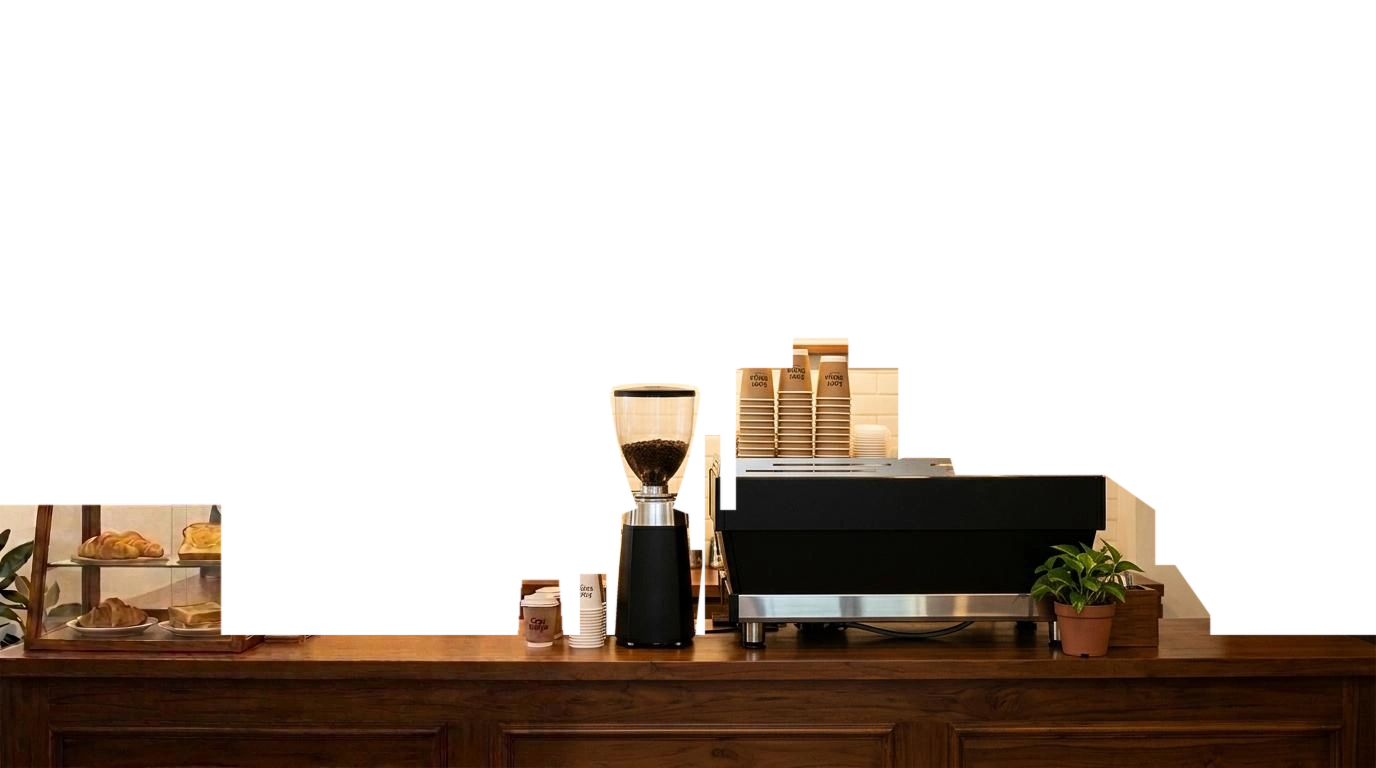
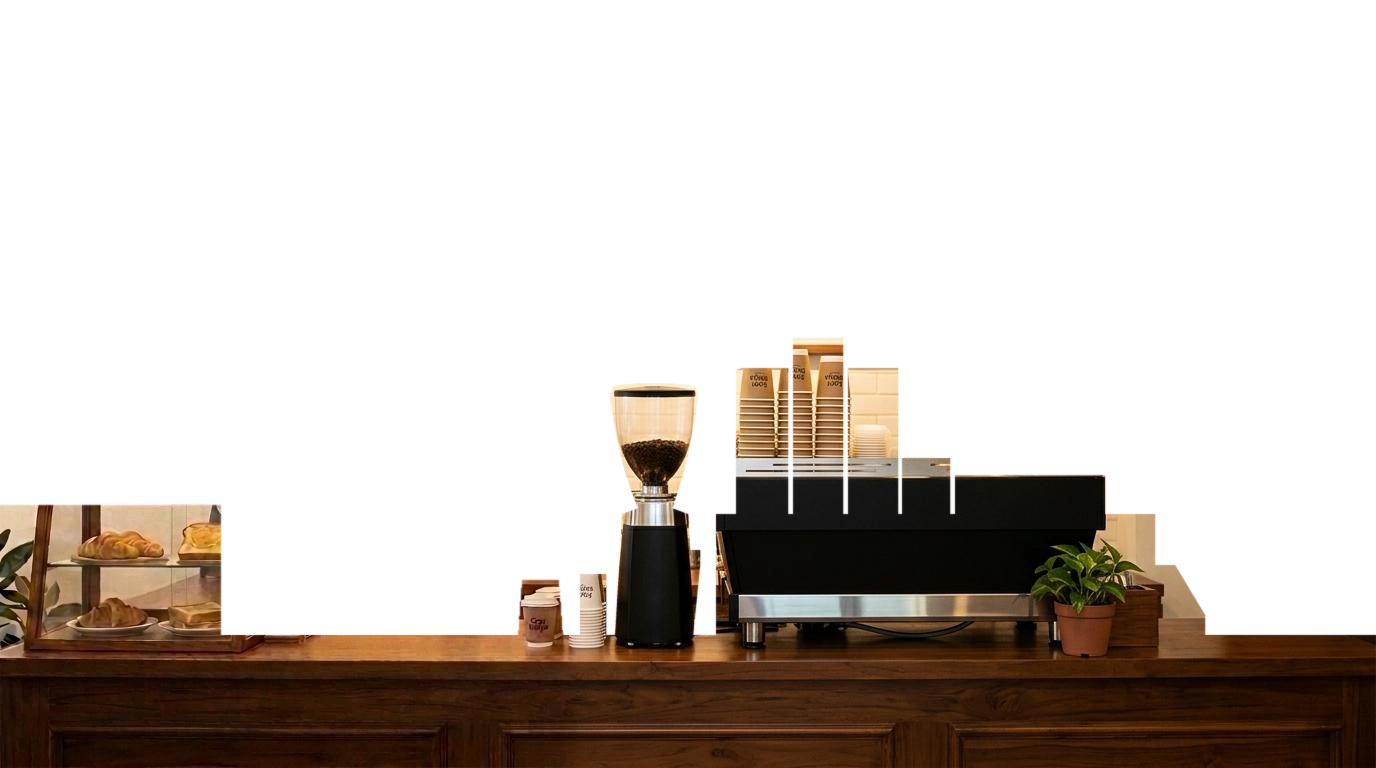
Initial commit

diff --git a/script.js b/script.js
@@ -733,7 +733,7 @@ function initHeroParallaxTuku() {
         if (!baristaEl) return;
 
         // Variabel posisi & pergerakan barista di balik meja
-        const POSISI_AWAL_PERSEN = 38; // Posisi default di meja tengah
+        const POSISI_AWAL_PERSEN = 33; // Posisi default di meja tengah
         let targetBaristaPersen = POSISI_AWAL_PERSEN;
         let currentBaristaPersen = POSISI_AWAL_PERSEN;
         let animPhase = 0;
@@ -742,7 +742,7 @@ function initHeroParallaxTuku() {
         let userSedangInteraksi = false;
         let timerIdle = null;
         let timerPatroli = null;
-        const stasiunPatroli = [24, 38, 58, 42, 28]; // Stasiun etalase roti (kiri), menyapa (tengah), mesin seduh (kanan)
+        const stasiunPatroli = [22, 33, 44, 35, 25]; // Area kerja: etalase toast (kiri), sapa tamu (tengah), mesin seduh (kanan)
         let indexPatroli = 0;
         let rafId = null;
         let lastTime = 0;
@@ -752,10 +752,10 @@ function initHeroParallaxTuku() {
         function updateTeksBalon(persen) {
             if (!balonEl) return;
             let teksBaru = '';
-            if (persen < 35) {
+            if (persen < 28) {
                 // Sisi Kiri: Etalase Toast & Kudapan (dekat tanda Pesan Di Sini)
                 teksBaru = 'Toast &amp; Kudapan hangat! &#129360;';
-            } else if (persen > 54) {
+            } else if (persen > 39) {
                 // Sisi Kanan: Grinder & Mesin Espresso (dekat tanda Ambil Di Sini)
                 teksBaru = 'Sedang meracik Kopi Susu Aren... &#10024;';
             } else {
@@ -848,14 +848,15 @@ function initHeroParallaxTuku() {
         }
         jadwalPatroli();
 
-        // Event pergerakan kursor mouse di area hero
+        // Event pergerakan kursor mouse di area hero (dibatasi dalam koridor area kerja barista)
         heroSection.addEventListener('mousemove', function (e) {
             userSedangInteraksi = true;
             clearTimeout(timerIdle);
 
             const rect = heroSection.getBoundingClientRect();
             const mousePercent = ((e.clientX - rect.left) / rect.width) * 100;
-            targetBaristaPersen = Math.max(16, Math.min(76, mousePercent));
+            // Batasi gerak barista antara etalase roti (18%) hingga samping grinder (46%) agar tidak terjebak di belakang mesin
+            targetBaristaPersen = Math.max(18, Math.min(46, mousePercent));
 
             startLoop();
 
@@ -871,7 +872,7 @@ function initHeroParallaxTuku() {
                 clearTimeout(timerIdle);
                 const rect = heroSection.getBoundingClientRect();
                 const touchPercent = ((e.touches[0].clientX - rect.left) / rect.width) * 100;
-                targetBaristaPersen = Math.max(16, Math.min(76, touchPercent));
+                targetBaristaPersen = Math.max(18, Math.min(46, touchPercent));
                 startLoop();
                 timerIdle = setTimeout(function () {
                     userSedangInteraksi = false;

diff --git a/index.html b/index.html
@@ -9,9 +9,9 @@
     <title>Kopi Senja — Beranda</title>
 
         <!-- Preload Gambar Latar Hero (Gaya Tuku) -->
-    <link rel="preload" as="image" href="images/hero/background.webp?v=normal" type="image/webp">
-    <link rel="preload" as="image" href="images/hero/barista-karakter.png?v=normal" type="image/png">
-    <link rel="preload" as="image" href="images/hero/meja.png?v=normal" type="image/png">
+    <link rel="preload" as="image" href="images/hero/background.webp?v=v2" type="image/webp">
+    <link rel="preload" as="image" href="images/hero/barista-karakter.png?v=v2" type="image/png">
+    <link rel="preload" as="image" href="images/hero/meja.png?v=v2" type="image/png">
     <!-- Favicon Kopi Senja -->
     <link rel="icon" type="image/svg+xml" href="images/favicon.svg">
 
@@ -58,19 +58,19 @@
     <section class="hero-parallax-section" aria-label="Suasana kedai kopi dan barista Kopi Senja Surabaya gaya Tuku">
         <div class="hero-parallax-stage" role="img" aria-label="Suasana kedai kopi dan barista Kopi Senja Surabaya">
             <!-- Lapisan 1: Foto Latar Belakang Kedai (Dinding, Papan Menu, Lampu) - DIAM -->
-            <img src="images/hero/background.webp?v=normal" alt="Latar Belakang Kedai Kopi Senja" class="parallax-bg">
+            <img src="images/hero/background.webp?v=v2" alt="Latar Belakang Kedai Kopi Senja" class="parallax-bg">
             <div class="hero-overlay-gelap" aria-hidden="true"></div>
 
             <!-- Lapisan 2: Karakter Barista Interaktif Bergerak Mengikuti Kursor di Balik Meja -->
             <div class="barista-interaktif" tabindex="0" role="button" aria-label="Karakter barista Kopi Senja menyapa">
-                <img src="images/hero/barista-karakter.png?v=normal" alt="Barista Kopi Senja Ramah Menyapa" class="barista-avatar">
+                <img src="images/hero/barista-karakter.png?v=v2" alt="Barista Kopi Senja Ramah Menyapa" class="barista-avatar">
                 <div class="barista-speech-bubble" aria-hidden="true">
                     Halo Kawan Senja! ☕
                 </div>
             </div>
 
             <!-- Lapisan 3: Meja Bar Depan & Mesin Seduh - DIAM (Z-Index di Atas Barista) -->
-            <img src="images/hero/meja.png?v=normal" alt="Meja Bar dan Mesin Espresso Kopi Senja" class="parallax-fg" aria-hidden="true">
+            <img src="images/hero/meja.png?v=v2" alt="Meja Bar dan Mesin Espresso Kopi Senja" class="parallax-fg" aria-hidden="true">
 
             <!-- Coretan Kapur & Petunjuk Halus Gaya Tuku (DIAM) -->
             <div class="tuku-chalk chalk-espresso" aria-hidden="true">

diff --git a/menu.html b/menu.html
@@ -63,19 +63,19 @@
         <figure class="hero-berlapis">
             <div class="hero-panggung" role="img" aria-label="Ilustrasi barista Kopi Senja melambai ramah di balik konter kedai, lengkap dengan mesin espresso, etalase kue, dan papan menu.">
                 <!-- Lapisan 1: Foto Latar Belakang Kedai (DIAM) -->
-                <img src="images/hero/background.webp?v=normal" alt="Latar Belakang Kedai Kopi Senja" class="parallax-bg hero-layer">
+                <img src="images/hero/background.webp?v=v2" alt="Latar Belakang Kedai Kopi Senja" class="parallax-bg hero-layer">
                 <div class="hero-overlay-gelap" aria-hidden="true"></div>
 
                 <!-- Lapisan 2: Karakter Barista Interaktif Berjalan Mengikuti Kursor di Balik Meja -->
                 <div class="barista-interaktif" id="baristaKarakterMenu" tabindex="0" role="button" aria-label="Karakter barista Kopi Senja menyapa">
-                    <img src="images/hero/barista-karakter.png?v=normal" alt="Barista Kopi Senja Ramah Menyapa" class="barista-avatar">
+                    <img src="images/hero/barista-karakter.png?v=v2" alt="Barista Kopi Senja Ramah Menyapa" class="barista-avatar">
                     <div class="barista-speech-bubble" id="baristaBalonMenu" aria-hidden="true">
                         Mau pesan apa hari ini? ☕
                     </div>
                 </div>
 
                 <!-- Lapisan 3: Meja Bar Depan & Mesin Espresso (DIAM & Z-Index di Depan Barista) -->
-                <img src="images/hero/meja.png?v=normal" alt="Meja Bar dan Mesin Espresso" class="parallax-fg hero-layer" aria-hidden="true">
+                <img src="images/hero/meja.png?v=v2" alt="Meja Bar dan Mesin Espresso" class="parallax-fg hero-layer" aria-hidden="true">
 
                 <!-- Coretan Kapur & Petunjuk Halus Gaya Tuku (DIAM) -->
                 <div class="tuku-chalk chalk-espresso" aria-hidden="true">

diff --git a/css/style.css b/css/style.css
@@ -2731,8 +2731,9 @@ button.btn-tambah.sukses-tambah {
 }
 
 .chalk-espresso {
-    top: 54%;
-    right: 8%;
+    top: 48%;
+    right: clamp(1.2rem, 10vw, 8rem);
+    white-space: nowrap;
 }
 
 /* 6. Mode Aksesibilitas: prefers-reduced-motion */

diff --git a/style.css b/style.css
@@ -2731,8 +2731,9 @@ button.btn-tambah.sukses-tambah {
 }
 
 .chalk-espresso {
-    top: 54%;
-    right: 8%;
+    top: 48%;
+    right: clamp(1.2rem, 10vw, 8rem);
+    white-space: nowrap;
 }
 
 /* 6. Mode Aksesibilitas: prefers-reduced-motion */
